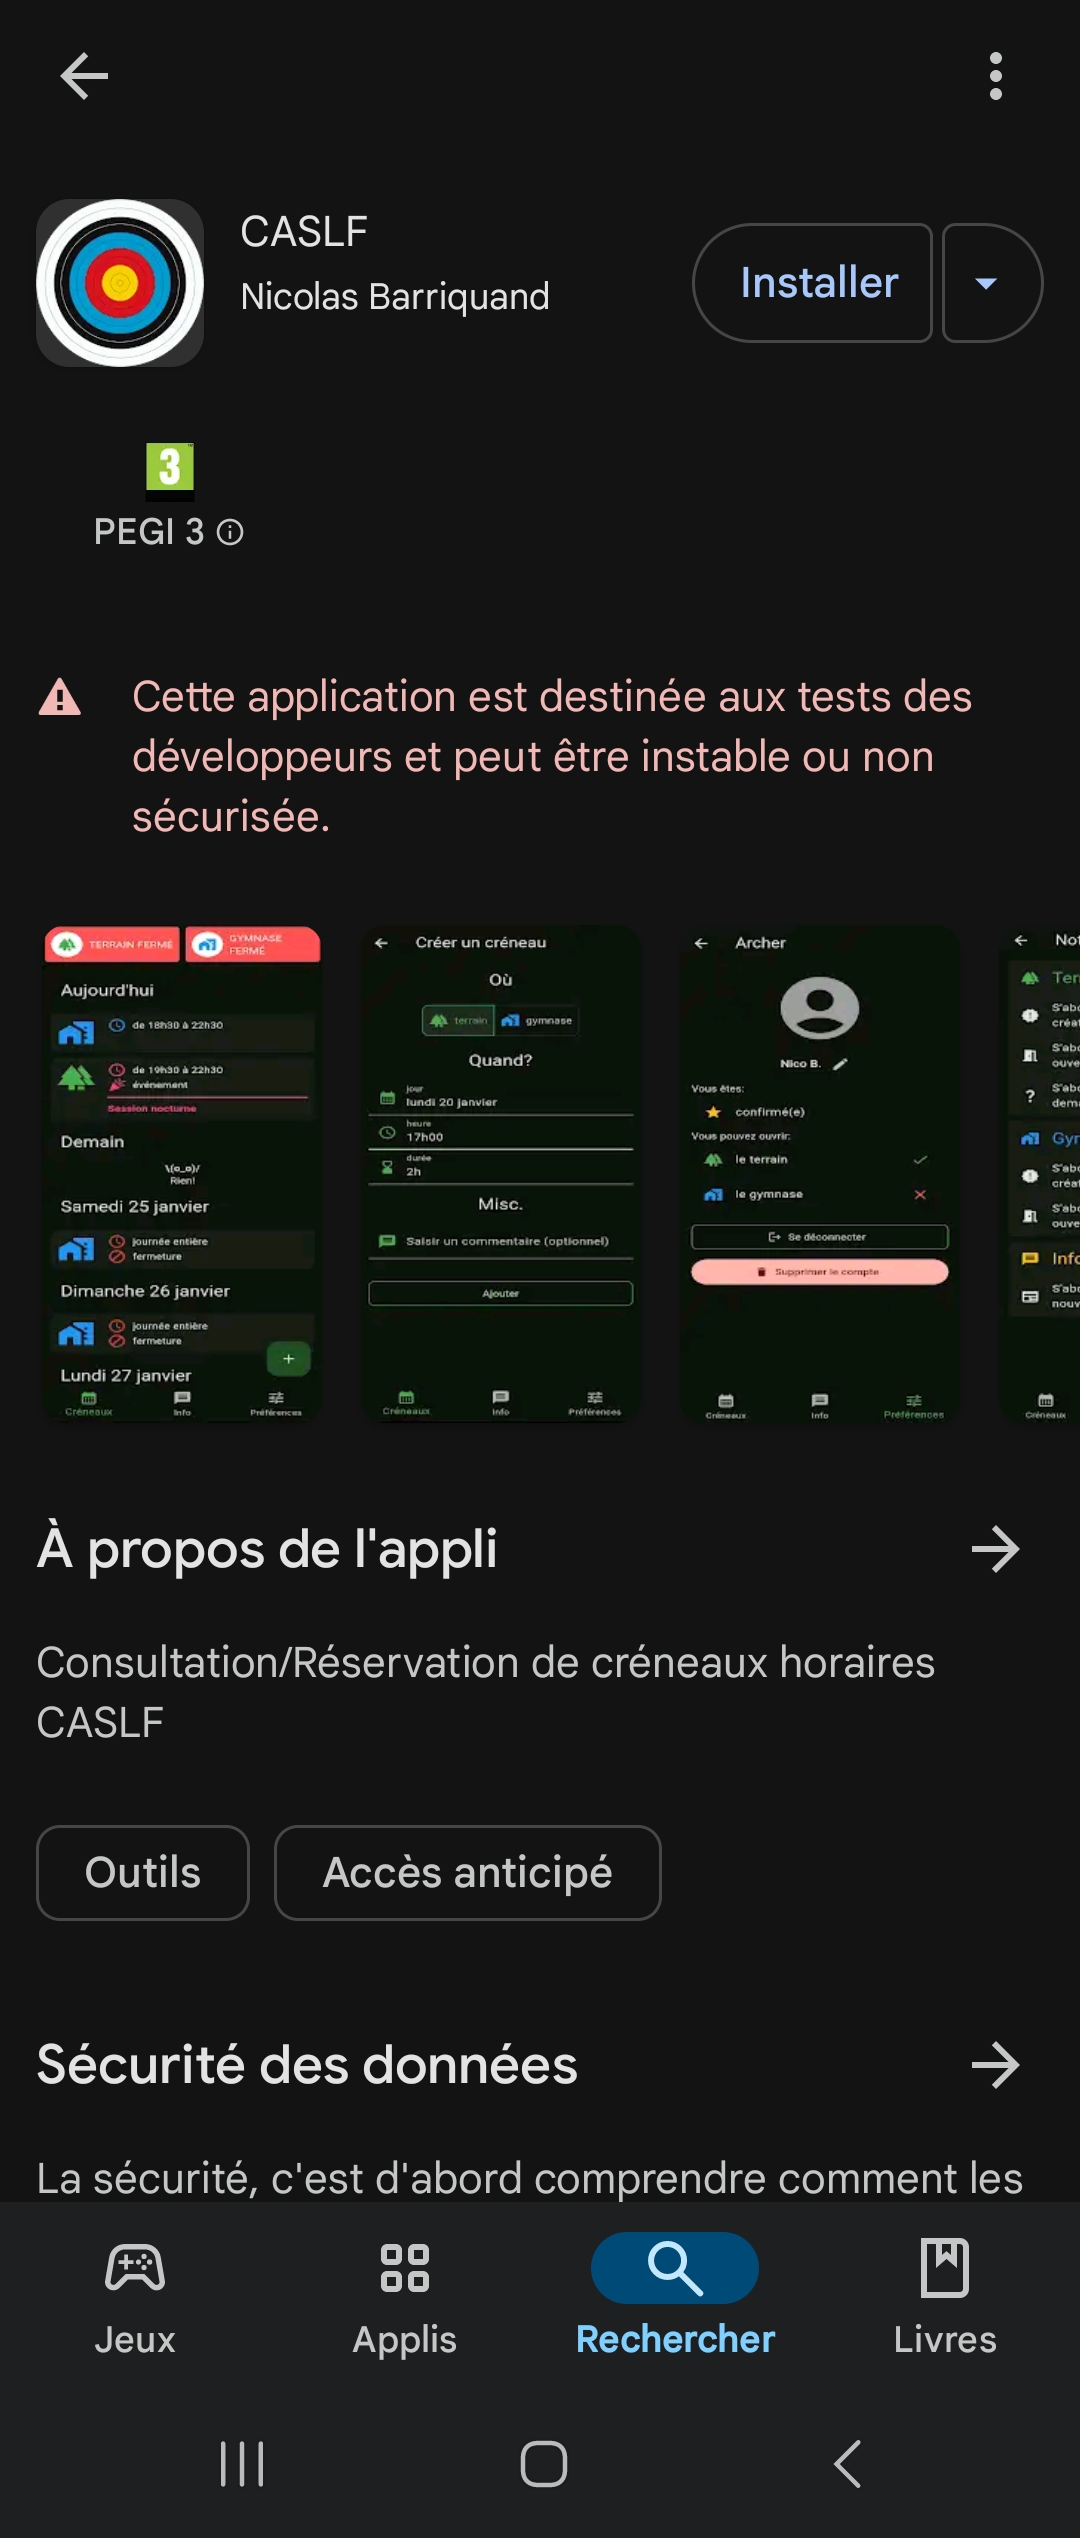
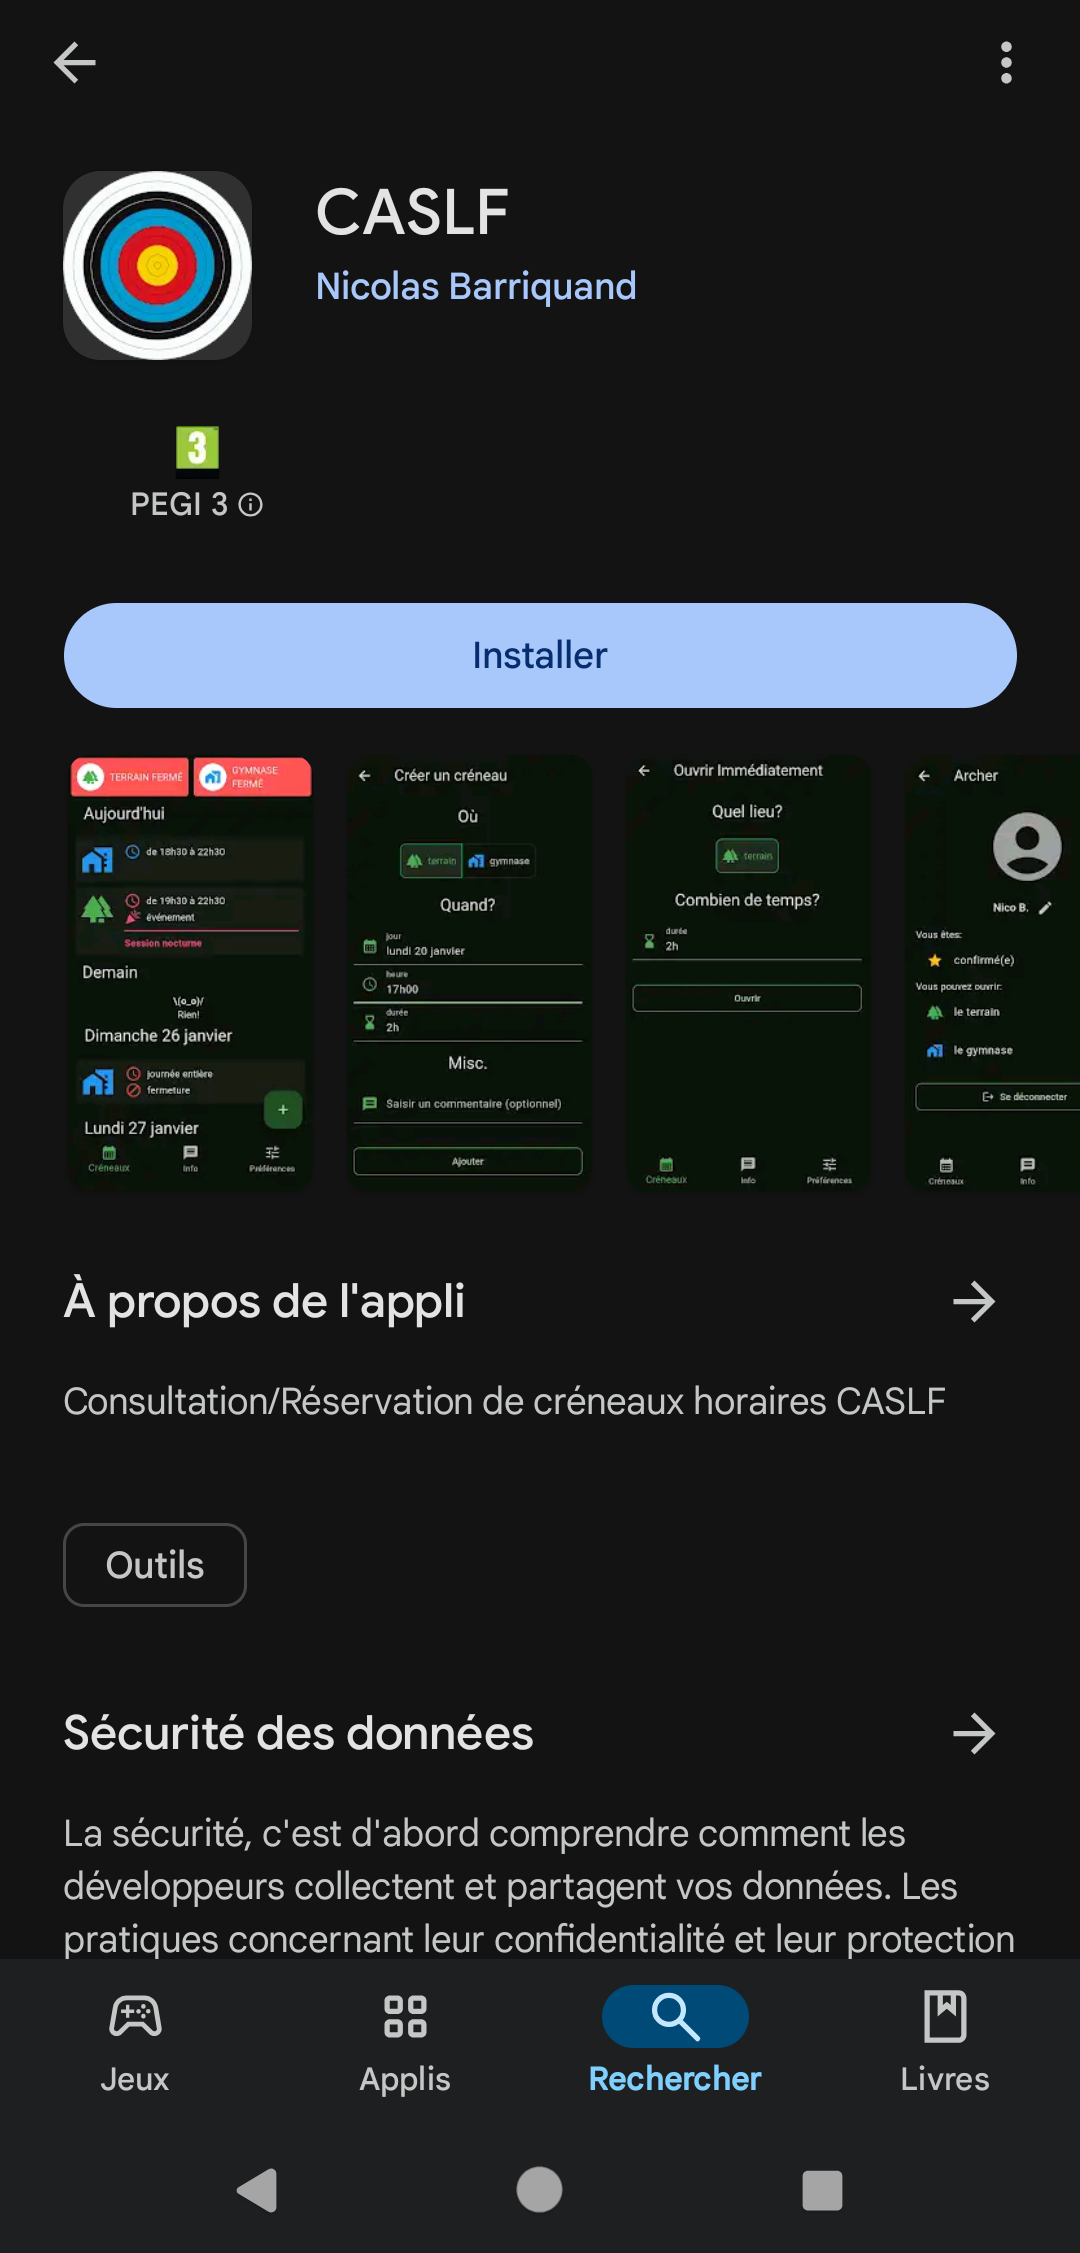
Maj installation Android Play Store

diff --git a/install/android/install.md b/install/android/install.md
@@ -5,17 +5,17 @@ prev: false
 
 ## Préambule
 
-::: warning ATTENTION
+<!-- ::: warning ATTENTION
 
 L'installation pour les appareils Android est actuellement en **accès anticipé** *i.e* ouverte **uniquement  sur invitation**.
 
 Par encore invité et vous voulez participer 🥰? Contactez-nous :relaxed:.
 
-:::
+::: -->
 
 
 ::: info TL;DR
-  Installez l'application nommée fr.caslf depuis le store.
+  Installez l'application nommée CASLF depuis le store.
   
   Vous pouvez passer à l'étape de [première connexion](/install/android/connect).
 :::
@@ -24,14 +24,14 @@ Par encore invité et vous voulez participer 🥰? Contactez-nous :relaxed:.
 
 Ouvrez l'application 'Play Store' *i.e* le magasin d'applications de google fourni avec votre téléphone:
 
-- ouvrez l'onglet recherche,
+- sélectionnez l'onglet recherche,
 - dans la zone de saisie, tapez:
-  - fr.caslf
+  - CASLF
 - validez.
 
-::: info REMARQUE
+<!-- ::: info REMARQUE
   Contrairement au mode de recherche habituel qui vous suggère des applications lors de la saisie, vous devez valider en cliquant sur l'icône 'loupe'/entrée de votre clavier pour que l'application fr.caslf apparaisse dans les résultats de recherche.
-:::
+::: -->
 
 L'application apparaît alors dans les résultats.
 
@@ -39,12 +39,12 @@ L'application apparaît alors dans les résultats.
 |---|---|
 | ![An image](/install/android/store_search_aio.png){width=250px}| ![An image](/install/android/store_list_app.png){width=250px}|
 
-En sélectionnant l'entrée de l'application, sa fiche s'affiche (arfff).
+En sélectionnant l'application, sa fiche s'affiche (arfff).
 
 
 ![An image](/install/android/store_fiche.png){width=250px}
 
-Cliquez sur 'installer'. L'application CASLF est maintenant disponible sur votre téléphone :tada:.
+Cliquez sur 'Installer'. L'application CASLF est maintenant disponible sur votre téléphone :tada:.
 
 ## Prochaine étape
 

diff --git a/install/intro.md b/install/intro.md
@@ -4,7 +4,7 @@ next: false
 ---
 
 L'application se présente sous la forme:
-- d'une application native sous Android actuellement disponible en accès anticipé sur le 'Play Store',
+- d'une application native sous Android disponible sur le 'Play Store',
 - d'une pwa ce qui permet de s'affranchir de la place de marché iOS.
 
 Notez:
